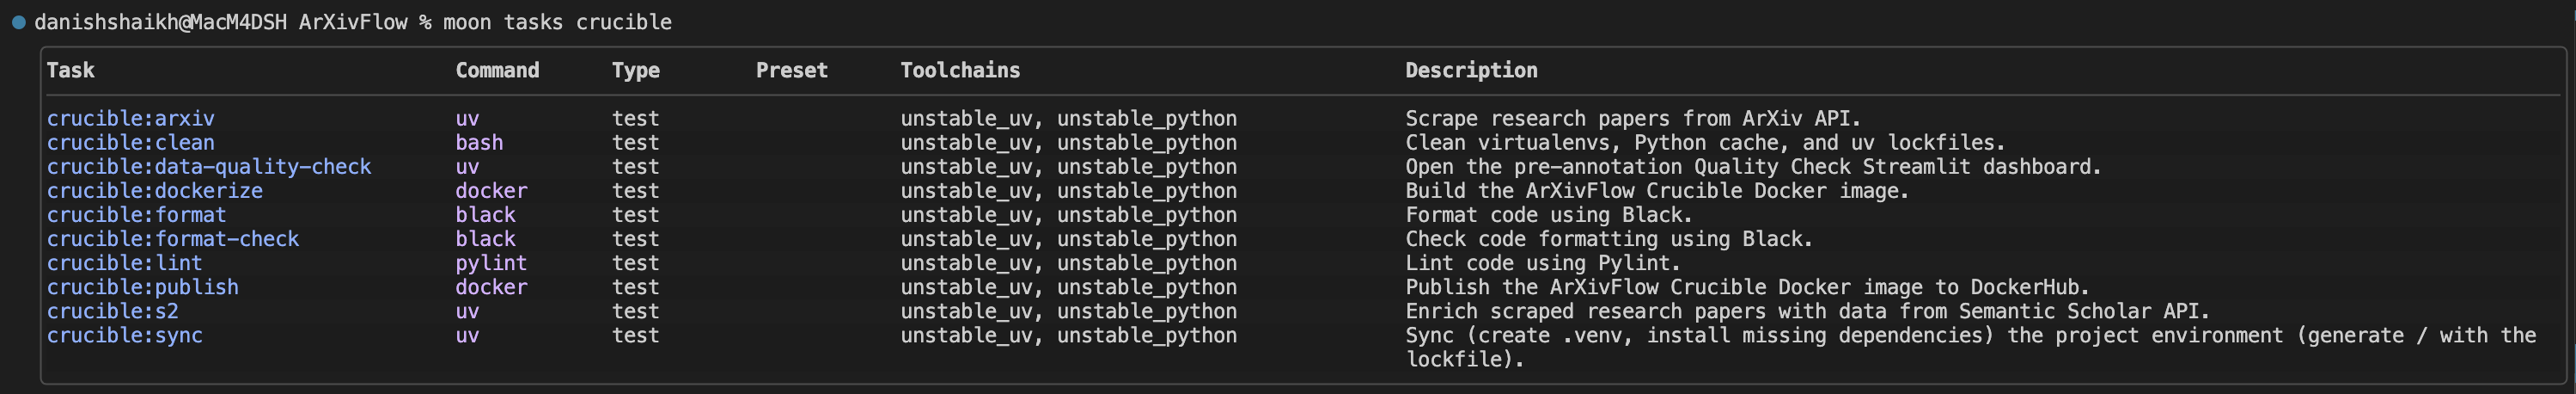
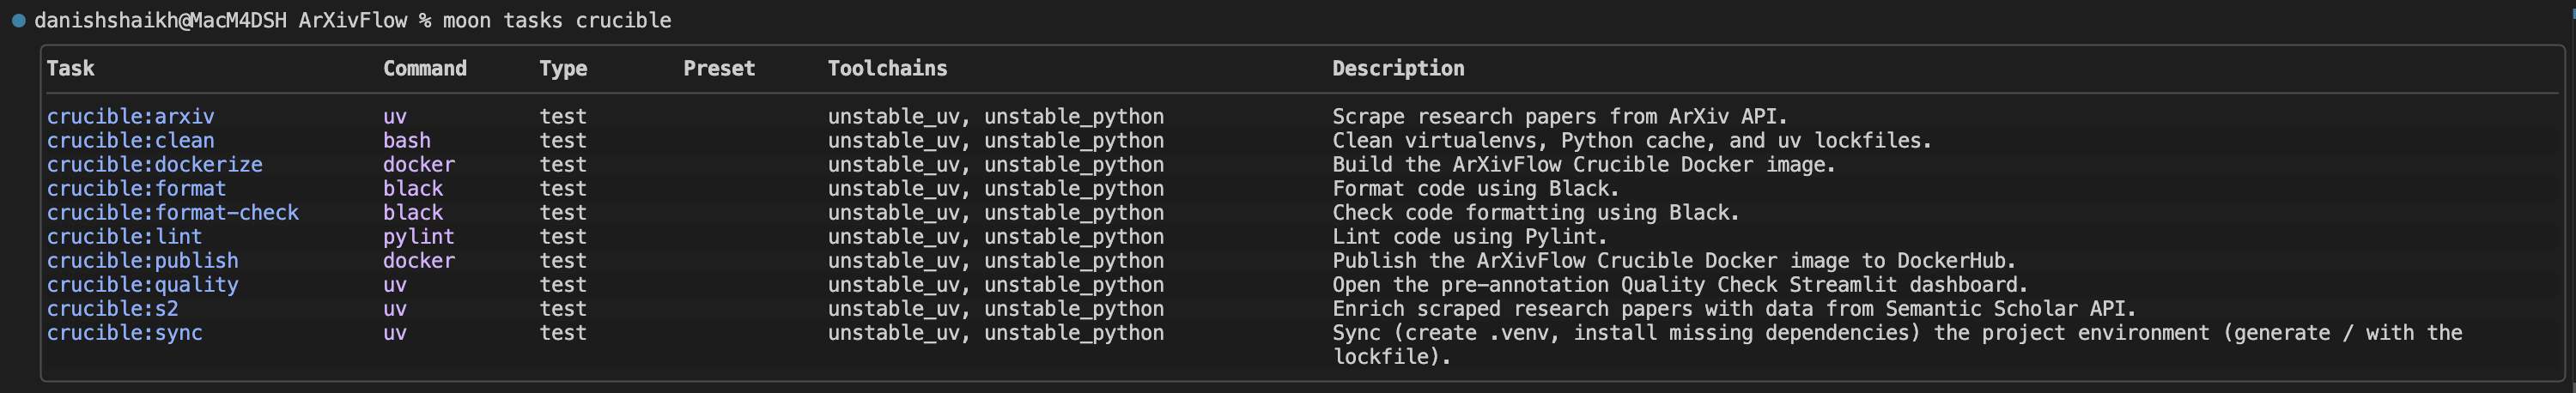
refactor(crucible): scoped to scraping and raw data quality checks

diff --git a/packages/crucible/README.md b/packages/crucible/README.md
@@ -1,8 +1,7 @@
 # Crucible Package
 
 Scrape research papers from [ArXiv API][arxiv-api-url] and enrich their metadata using [Semantic Scholar API][semantic-scholar-api-url].
-Perform quality check inspections both pre _(raw data)_ and post annotation.
-Annotate data using **Kubernetes** deployment of Label-Studio.
+Perform raw data quality check inspections.
 
 ---
 
@@ -166,20 +165,6 @@ Upload the pre-annotation data quality check cleaning _(Available in the Streaml
 
 ```bash
 kubectl cp ./data/raw_dataset_enriched_cleaned.jsonl arxivflow-pvc-inspector:/data/arxivflow/data/
-```
-
-### Annotate
-
-Deploy the Label Studio instance connected to the `arxivflow-pvc`, ready for data annotation work package.
-
-```bash
-kubectl apply -f k8s/label-studio.yml
-```
-
-Port fowarding to access the deployed instance locally.
-
-```bash
-kubectl port-forward svc/label-studio 8080:8080
 ```
 
 ---